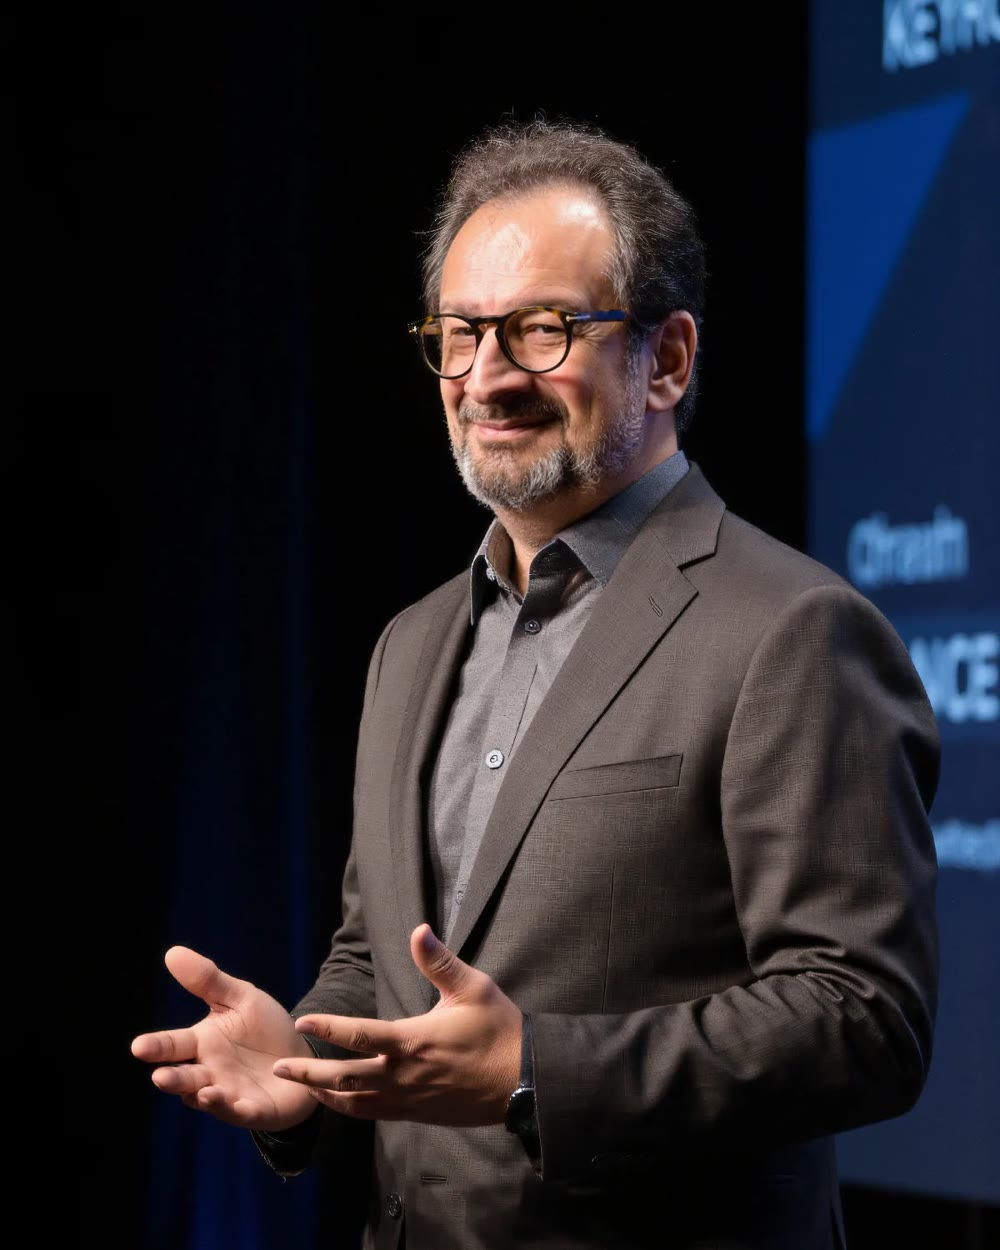
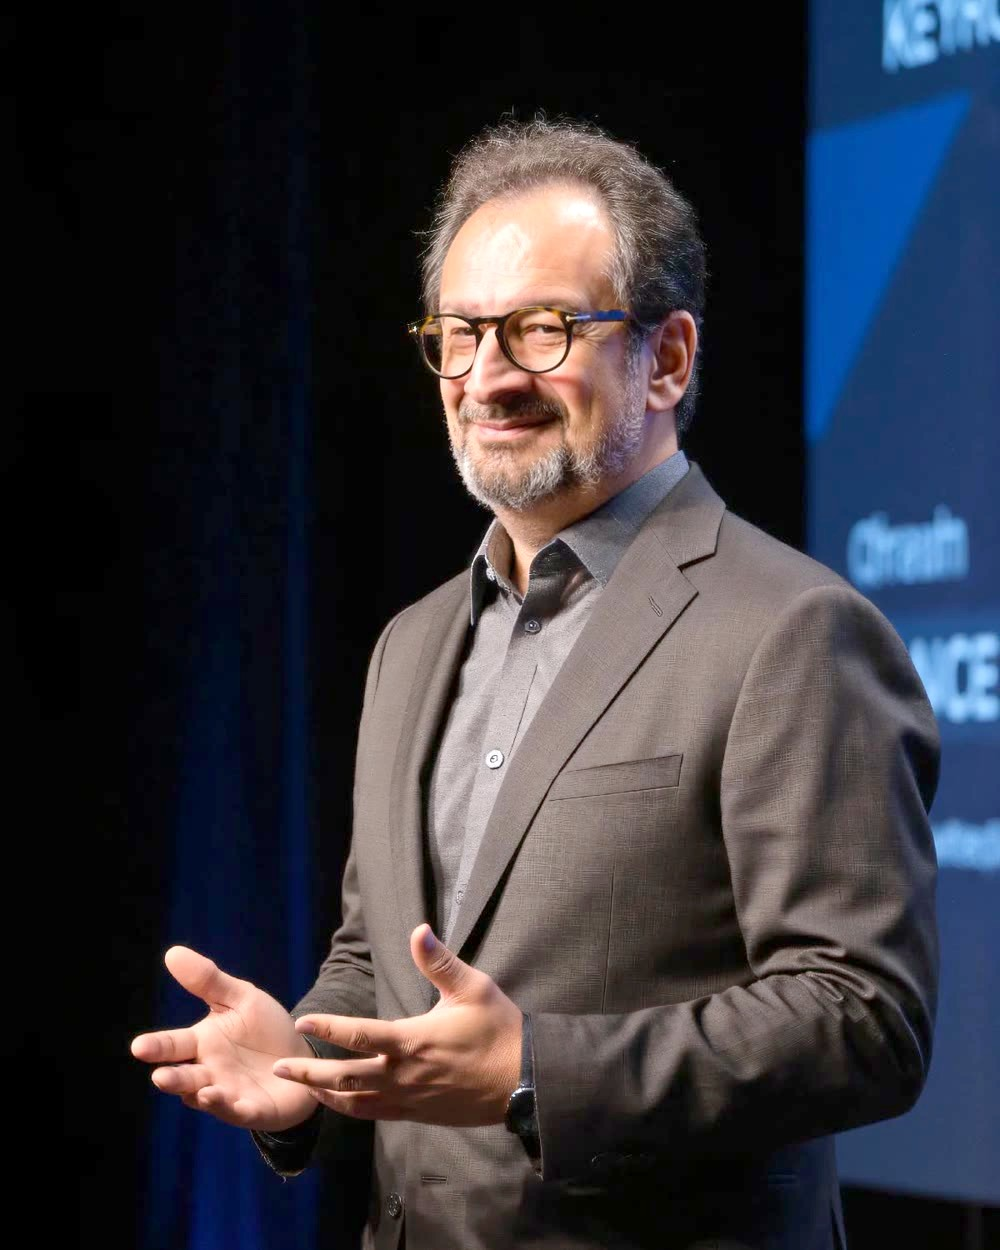
Team page: board labels, coach advisors, brighter Bassel photo
- Alan Marash is labeled Board Member; Dan, Andrew and Samer are Advisory Board Members
- Cards show the title above the name and the affiliation below it; section renamed Board & Advisors
- Séverine Jourdain and Andrea Milwidsky join the team page as Coach and Advisor, reusing their coach bios
- Their Coaches page titles now read "... Coach and Advisor"
- Phone numbers removed from team profiles; contact is EthosQuest email and LinkedIn
- Brightened Bassel's portrait on the team and coach pages

diff --git a/app/ethos/EthosTeam.ts b/app/ethos/EthosTeam.ts
@@ -1,20 +1,24 @@
 // Our Team page: leadership and advisory board. Each card expands in place to show the full profile.
 // Headshots are supplied by the team (dropped into /headshots, processed into /public/media/team/<slug>.jpg).
 // Profiles without a photo show their initials; profiles without a bio show "Bio to come".
-// Bassel's bio is a condensed version of the About page (EthosBassel.ts).
+// Bassel's bio is a condensed version of the About page (EthosBassel.ts); the coach advisors reuse their coach bios (EthosCoaches.ts).
+// No phone numbers: contact is EthosQuest email and LinkedIn only.
+
+import { coaches } from './EthosCoaches';
 
 export type EthosTeamMember = {
  slug: string;
  name: string;
  title: string;
- // Advisors: their principal role elsewhere, shown on the card in place of the repeated "Advisor".
+ // Their principal role elsewhere, shown under the name.
  affiliation?: string;
  photo?: string;
  bio: string[];
  linkedin?: string;
  email?: string;
- phone?: string;
 };
+
+const coachBio = (slug: string) => coaches.find(coach => coach.slug === slug)!.bio;
 
 export const teamLeadership: EthosTeamMember[] = [
  { slug: 'alexia-crawford', name: 'Alexia Crawford', title: 'CEO', photo: '/media/team/alexia-crawford.jpg', bio: [
@@ -31,26 +35,28 @@ export const teamLeadership: EthosTeamMember[] = [
 ];
 
 export const teamAdvisors: EthosTeamMember[] = [
- { slug: 'alan-marash', affiliation: 'Partner, JATS Partners', name: 'Alan Marash', title: 'Advisor', photo: '/media/team/alan-marash.jpg', bio: [
+ { slug: 'alan-marash', affiliation: 'Partner, JATS Partners', name: 'Alan Marash', title: 'Board Member', photo: '/media/team/alan-marash.jpg', bio: [
   'Alan brings more than thirty years of leadership in professional services and governance. For two decades he was CEO and board chair of Oriel STAT A MATRIX, a family-owned global provider of training, consulting, and regulatory services to medical device manufacturers in more than 50 countries.',
   'He led the company through an acquisition and joint ventures in Japan and the Middle East, then sold it to a London-based private equity firm two years ahead of plan, after 52 years of family ownership.',
   'Today he is a partner at JATS Partners, investing in and advising growth-stage companies, and a strategic advisor to the AI education and certification group IQube. A longtime YPO leader, he serves on its Global Board after chairing the Northeast U.S. regional board, which supports more than 3,200 CEOs. He studied at Fordham University.',
  ], linkedin: 'https://www.linkedin.com/in/amarash/' },
- { slug: 'dan-hoffman', affiliation: 'Founder & CEO, ForumSpace', name: 'Dan Hoffman', title: 'Advisor', photo: '/media/team/dan-hoffman.jpg', bio: [
+ { slug: 'dan-hoffman', affiliation: 'Founder & CEO, ForumSpace', name: 'Dan Hoffman', title: 'Advisory Board Member', photo: '/media/team/dan-hoffman.jpg', bio: [
   'Dan is the founder and CEO of ForumSpace and CircleSpace, which help leaders build trust and learn together in small peer groups, the practice he first experienced in YPO. Clients have included Harvard Business School, the Aspen Institute, YPO, and Salesforce.',
   'He founded and led M5 Networks for eleven years, growing it from a startup into a leading cloud communications company for mid-market businesses before its sale to ShoreTel in 2012. Earlier, he helped build Asia Online across 13 countries.',
   'A Henry Crown Fellow of the Aspen Institute, he has served for nearly two decades on the board of Workshop in Business Opportunities, which helps entrepreneurs in underserved communities build stronger businesses. He studied at Harvard University.',
  ], linkedin: 'https://www.linkedin.com/in/danhoffman3/' },
- { slug: 'andrew-sacks', affiliation: 'CEO, AgencySacks', name: 'Andrew Sacks', title: 'Advisor', photo: '/media/team/andrew-sacks.jpg', bio: [
+ { slug: 'andrew-sacks', affiliation: 'CEO, AgencySacks', name: 'Andrew Sacks', title: 'Advisory Board Member', photo: '/media/team/andrew-sacks.jpg', bio: [
   'Andrew leads AgencySacks, the New York strategy and creative boutique he has run since 1999, which helps premium and luxury businesses build their brands among an affluent audience.',
   'His work spans brand strategy, positioning, and identity, grounded in the firm’s own research into affluent consumers. He acts as an editor and arbiter for the brands he works with, helping them discover what truly matters to them and carry it through everything from look, story, and voice to the internal organization.',
   'He studied at Tulane University and lives in New York and East Hampton.',
  ], linkedin: 'https://www.linkedin.com/in/andrewsacks/' },
- { slug: 'samer-hamwi', affiliation: 'Founder, GlobaConsult', name: 'Samer Hamwi', title: 'Advisor', photo: '/media/team/samer-hamwi.jpg', bio: [
+ { slug: 'samer-hamwi', affiliation: 'Founder, GlobaConsult', name: 'Samer Hamwi', title: 'Advisory Board Member', photo: '/media/team/samer-hamwi.jpg', bio: [
   'Samer is the founder and managing principal of GlobaConsult, a Dubai-based advisory practice helping organizations across the UAE, the Gulf, and the Levant with AI strategy, digital transformation, venture building, and regulated digital infrastructure.',
   'Over more than 25 years he has built and led technology ventures across financial services, healthtech, and utilities, including Globatech, Globacom Technologies, and the interoperability platform Nexusware, and co-founded the fintech company FINALYTIX. Earlier, he spent eleven years as Group CIO of the Dubai-based investment bank SHUAA Capital.',
   'He serves on the boards of DATANUUM and the non-profit Bareeq Education & Development, co-founded the Syria AI Foundation, and studied at the University of Houston’s C.T. Bauer College of Business.',
  ], linkedin: 'https://www.linkedin.com/in/samhamwi/' },
+ { slug: 'severine-jourdain', affiliation: 'Co-director, IMD Executive Coaching Certificate', name: 'Séverine Jourdain', title: 'Executive & Leadership Coach and Advisor', photo: '/media/coaches/severine-jourdain.jpg', bio: coachBio('severine-jourdain') },
+ { slug: 'andrea-milwidsky', name: 'Andrea Milwidsky', title: 'Integral Coach and Advisor', photo: '/media/coaches/andrea-milwidsky.jpg', bio: coachBio('andrea-milwidsky') },
 ];
 
 export const teamInitials = (member: EthosTeamMember) => member.name.split(' ').map(part => part[0]).join('').slice(0, 2).toUpperCase();

diff --git a/app/ethos/EthosTeamPage.tsx b/app/ethos/EthosTeamPage.tsx
@@ -1,7 +1,7 @@
 'use client';
 import { useCallback, useEffect, useRef, useState } from 'react';
 import { AnimatePresence, MotionConfig, motion } from 'framer-motion';
-import { ArrowRight, ArrowUpRight, Mail, Phone, X } from 'lucide-react';
+import { ArrowRight, ArrowUpRight, Mail, X } from 'lucide-react';
 import { withBase } from './EthosPath';
 import EthosReveal from './EthosReveal';
 import EthosFooter from './EthosFooter';
@@ -29,14 +29,15 @@ function TeamCard({ member, onOpen }: { member: EthosTeamMember; onOpen: (member
  return <motion.article layoutId={'team-card-' + member.slug} className="group relative flex h-full flex-col">
   <Portrait member={member} />
   <div className="flex flex-1 flex-col border-b border-[#132040]/15 pb-6 pt-6">
-   <p className="font-accent text-[12px] uppercase tracking-[0.2em] text-[#9E1B34]">{member.affiliation ?? member.title}</p>
+   <p className="font-accent text-[12px] uppercase tracking-[0.2em] text-[#9E1B34]">{member.title}</p>
    <h3 className="mt-3 text-[26px] leading-[1.2] lg:text-[28px]"><button type="button" onClick={event => onOpen(member, event.currentTarget)} aria-haspopup="dialog" className="bg-transparent p-0 text-left text-inherit outline-none after:absolute after:inset-0 after:content-[''] focus-visible:after:outline focus-visible:after:outline-2 focus-visible:after:outline-offset-4 focus-visible:after:outline-[#9E1B34]">{member.name}</button></h3>
+   {member.affiliation && <p className="mt-2 text-[15px] leading-[1.5] text-[#132040]/65">{member.affiliation}</p>}
    <span aria-hidden="true" className="mt-auto flex items-center gap-2 pt-6 text-[13px] uppercase tracking-[0.16em] text-[#132040]/70 transition-colors group-hover:text-[#9E1B34]">View profile<ArrowRight size={16} strokeWidth={1.4} className="transition-transform duration-300 group-hover:translate-x-1" /></span>
   </div>
  </motion.article>;
 }
 
-// The full-screen profile: bio, LinkedIn and contact details.
+// The full-screen profile: bio, LinkedIn and EthosQuest email.
 function TeamProfile({ member, onClose }: { member: EthosTeamMember; onClose: () => void }) {
  const close = useRef<HTMLButtonElement>(null);
  useEffect(() => {
@@ -50,7 +51,6 @@ function TeamProfile({ member, onClose }: { member: EthosTeamMember; onClose: ()
  const contacts: [React.ReactNode, string, string][] = [];
  if (member.linkedin) contacts.push([<ArrowUpRight key="i" aria-hidden="true" size={18} strokeWidth={1.4} />, 'LinkedIn profile', member.linkedin]);
  if (member.email) contacts.push([<Mail key="i" aria-hidden="true" size={18} strokeWidth={1.4} />, member.email, 'mailto:' + member.email]);
- if (member.phone) contacts.push([<Phone key="i" aria-hidden="true" size={18} strokeWidth={1.4} />, member.phone, 'tel:' + member.phone.replace(/[^\d+]/g, '')]);
  return <motion.div role="dialog" aria-modal="true" aria-labelledby={'team-name-' + member.slug} layoutId={'team-card-' + member.slug} transition={{ duration: 0.55, ease: ethosEase }} className="fixed inset-0 z-50 overflow-y-auto bg-[#F7F4EE]">
   <button ref={close} type="button" onClick={onClose} aria-label={'Close ' + member.name + '’s profile'} className="fixed right-5 top-5 z-10 flex h-12 w-12 items-center justify-center bg-[#132040] text-[#F7F4EE] transition-colors hover:bg-[#9E1B34] md:right-8 md:top-8"><X aria-hidden="true" size={22} strokeWidth={1.4} /></button>
   <div className="mx-auto grid max-w-[1280px] gap-10 px-6 py-24 md:px-[48px] lg:grid-cols-[0.8fr_1.2fr] lg:gap-20 lg:py-28 min-[1440px]:px-[64px]">
@@ -88,7 +88,7 @@ export default function EthosTeamPage() {
  return <MotionConfig reducedMotion="user"><main id="main-content">
   <section className="px-6 pb-20 pt-36 md:px-12 md:pb-28 md:pt-44 lg:px-20"><EthosReveal className="mx-auto max-w-[1280px]"><EthosEyebrow>Our Team</EthosEyebrow><div className="mt-7 grid items-end gap-9 lg:grid-cols-[1.2fr_0.8fr]"><h1 className="font-accent text-[42px] leading-[1.06] md:text-[60px] lg:text-[68px]">The people<br /><span className="text-[#9E1B34]">behind the work.</span></h1><p className="max-w-[460px] text-[18px] leading-[1.75] text-[#132040]/75 md:text-[20px]">EthosQuest is led by people who have carried consequential decisions themselves, and guided by advisors who bring experience from across business and leadership.</p></div></EthosReveal></section>
   <section aria-label="Leadership" className="px-6 pb-20 md:px-12 md:pb-28 lg:px-20"><div className="mx-auto max-w-[1280px] border-t border-[#132040]/12 pt-16 md:pt-20"><TeamGroup label="Leadership" title="Leading EthosQuest." members={teamLeadership} columns="lg:grid-cols-3" onOpen={show} /></div></section>
-  <section aria-label="Advisory Board" className="ethos-sand px-6 py-20 md:px-12 md:py-28 lg:px-20"><div className="mx-auto max-w-[1280px]"><TeamGroup label="Advisory Board" title="Counsel and perspective." members={teamAdvisors} columns="lg:grid-cols-4" onOpen={show} /></div></section>
+  <section aria-label="Board and Advisors" className="ethos-sand px-6 py-20 md:px-12 md:py-28 lg:px-20"><div className="mx-auto max-w-[1280px]"><TeamGroup label="Board & Advisors" title="Counsel and perspective." members={teamAdvisors} columns="lg:grid-cols-4" onOpen={show} /></div></section>
   <EthosCta />
  </main><EthosFooter />
  <AnimatePresence>{open && <TeamProfile key={open.slug} member={open} onClose={hide} />}</AnimatePresence>

diff --git a/app/ethos/EthosCoaches.ts b/app/ethos/EthosCoaches.ts
@@ -1,6 +1,6 @@
 export const coaches = [
  {
-  slug:'severine-jourdain', name:'Séverine Jourdain', role:'Executive & Leadership Coach', credential:'MCC · International Coaching Federation',
+  slug:'severine-jourdain', name:'Séverine Jourdain', role:'Executive & Leadership Coach and Advisor', credential:'MCC · International Coaching Federation',
   headline:'Depth of experience. An organizational perspective.',
   summary:'More than two decades supporting senior leaders, leadership teams, and organizations.',
   focus:['Executive leadership','Leadership teams','Organizational development'],
@@ -10,7 +10,7 @@ export const coaches = [
   photoSource:'https://www.imd.org/wp-content/uploads/2023/10/20230109-SeverineJourdain-590x640x2-comp.jpg',
  },
  {
-  slug:'andrea-milwidsky', name:'Andrea Milwidsky', role:'Integral Coach', credential:'MA · Licensed Marriage & Family Therapist',
+  slug:'andrea-milwidsky', name:'Andrea Milwidsky', role:'Integral Coach and Advisor', credential:'MA · Licensed Marriage & Family Therapist',
   headline:'A thoughtful space for personal growth.',
   summary:'A collaborative approach shaped by integral coaching, education, and a background in psychotherapy.',
   focus:['Personal growth','Self-compassion','Life transitions'],

diff --git a/COACH-SOURCES.md b/COACH-SOURCES.md
@@ -40,7 +40,7 @@ Data in app/ethos/EthosTeam.ts. Bios drafted October 13, 2026 from the public Li
 - Alexia Crawford (CEO): https://www.linkedin.com/in/alexia-crawford-/
 - Bassel Hamwi (Founder & Chairman): condensed from the About page (app/ethos/EthosBassel.ts)
 - Paige (Executive): placeholder until details are supplied
-- Alan Marash (Advisor): https://www.linkedin.com/in/amarash/
-- Dan Hoffman (Advisor): https://www.linkedin.com/in/danhoffman3/
-- Andrew Sacks (Advisor): https://www.linkedin.com/in/andrewsacks/ and https://www.agencysacks.com/team
-- Samer Hamwi (Advisor): https://www.linkedin.com/in/samhamwi/ (identified by matching the profile photo supplied by the team)
+- Alan Marash (Board Member): https://www.linkedin.com/in/amarash/
+- Dan Hoffman (Advisory Board Member): https://www.linkedin.com/in/danhoffman3/
+- Andrew Sacks (Advisory Board Member): https://www.linkedin.com/in/andrewsacks/ and https://www.agencysacks.com/team
+- Samer Hamwi (Advisory Board Member): https://www.linkedin.com/in/samhamwi/ (identified by matching the profile photo supplied by the team)
